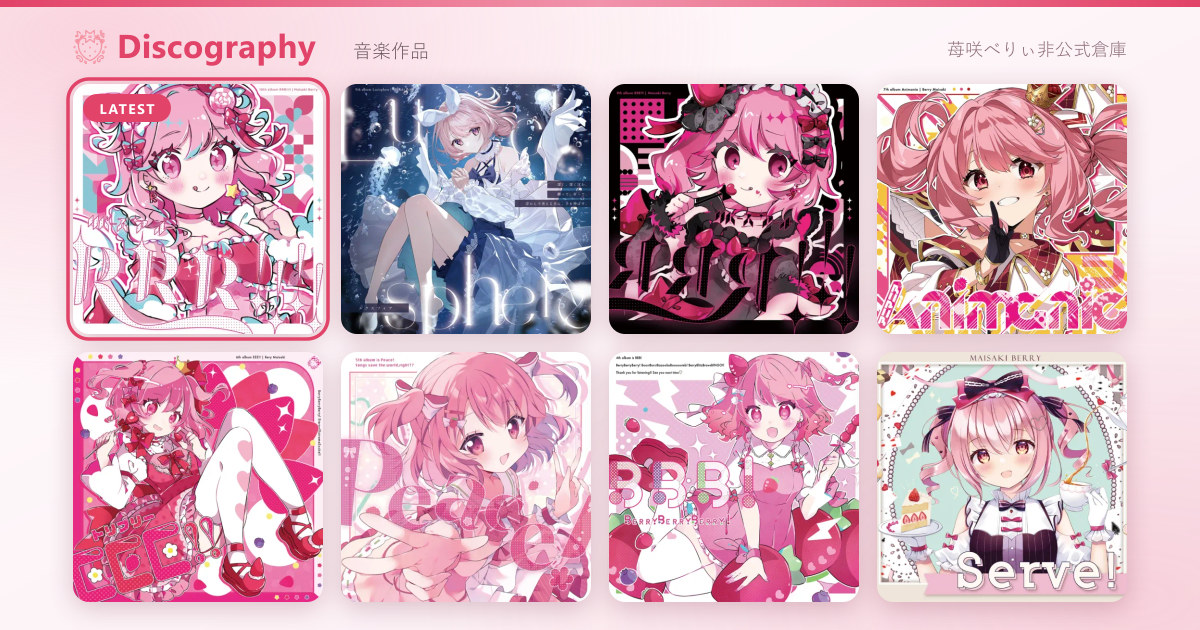
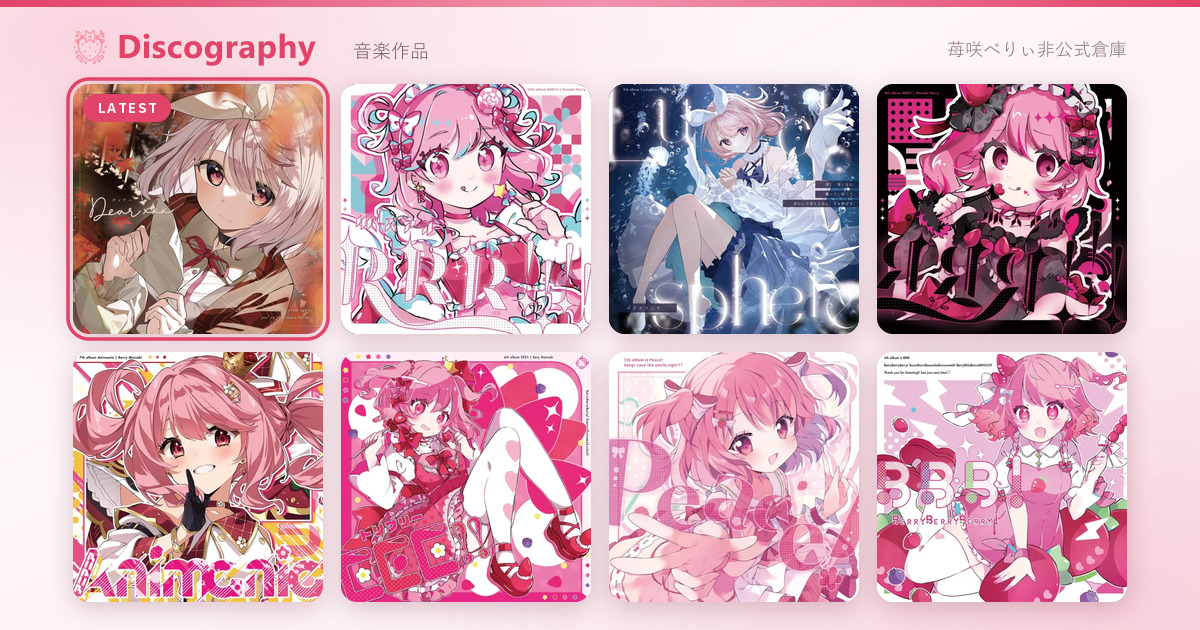
feat: 音樂作品收錄 11th『Dear xxx』＋CAKE,Cake'n Cake!——頭像・分享卡換 11th
- discographyData：albums 加 11th Album『Dear xxx』（2026-10-25；曲目／staff 以 BOOTH
  商品頁為準、與特設頁 credit 圖一致；Unbecoming 尚未進 songlist 故 songID null）；
  guests 加 SOUND VOLTEX ∇ 收錄曲「CAKE,Cake'n Cake!」（新 roleKey `game`）
- Discography.svelte：roleLabel 補 bass／drums、guestRole 補 game（三語）
- 封面 img/albums/dear-xxx.webp；template.yaml 的 ogDisco 加 dear-xxx（OG 快照 41→42 支）
- 個人資料頭像換 avatar-11th.webp（無字主插畫圓裁——封面會帶到標題字），
  移除已無引用的 avatar-10th.webp
- og/profile.jpg（NEW RELEASE 卡）與 og/discography.jpg（最新 8 張拼貼＋LATEST）換 11th
- history.md：11th 條目改連官方特設頁並對齊既有標題格式；SOUND VORTEX→VOLTEX 錯字
- fansite-v2/CLAUDE.md 新增「新專輯發售時的更新清單」；changelog.json、根 CLAUDE.md 同步

diff --git a/fansite-v2/src/pages/discographyData.js b/fansite-v2/src/pages/discographyData.js
@@ -21,7 +21,7 @@
 //   type          'album' | 'single' —— ⚠ 保留欄位，目前頁面完全未讀取（專輯／單曲之分
 //                 來自 albums / singles 兩個匯出，卡片標籤看的是有無 ordinal）。留著是為了
 //                 日後若改成單一清單再分類；有新增資料時請照樣填。
-//   ordinal       專輯序數（1st~10th）；單曲無
+//   ordinal       專輯序數（1st~11th）；單曲無
 //   title         作品名（原文）
 //   releaseDate   YYYY-MM-DD（專輯＝官方特設頁/M3 場次日；單曲＝iTunes 配信日）
 //   links         有才顯示（1st 絕版、單曲無特設頁）：
@@ -42,6 +42,65 @@
 
 /** 專輯（新→舊，同衣裝頁慣例；ordinal 保留原始序數） */
 export const albums = [
+  {
+    id: 'dear-xxx',
+    type: 'album',
+    ordinal: 11,
+    title: 'Dear xxx',
+    releaseDate: '2026-10-25',
+    links: {
+      official: 'https://www.maisakiberry.com/11th-dearxxx',
+      booth: 'https://booth.pm/ja/items/8992308',
+      xfd: 'mAmfQ1dUMo4',
+    },
+    instrumental: true,
+    staff: [
+      { roles: ['illust'], name: 'BORUMETE' },
+      { roles: ['sdIllust'], name: '小吉よこ' },
+      { roles: ['design', 'logo'], name: '来宮りお' },
+      { roles: ['emblem'], name: 'ますだめぐみ' },
+      { roles: ['mastering'], name: 'スタジオセブン' },
+    ],
+    tracks: [
+      {
+        songID: 1058,
+        name: 'どうか今だけは',
+        credits: [
+          { roles: ['lyrics'], name: '葉月リョウヘイ(U-RASIA)' },
+          { roles: ['music'], name: 'ひかげ' },
+        ],
+      },
+      {
+        songID: 1064,
+        name: 'Faraway',
+        credits: [
+          { roles: ['lyrics'], name: '結崎有理' },
+          { roles: ['music'], name: 'ねぎとろ。' },
+        ],
+      },
+      {
+        songID: 1060,
+        name: 'エコー',
+        credits: [
+          { roles: ['lyrics'], name: '七乃二条（創作集団「カタリスト」）' },
+          { roles: ['music'], name: 'Yuy（Secret Messenger）' },
+          { roles: ['bass'], name: 'あばら' },
+          { roles: ['drums'], name: 'hiroto kanzaki' },
+          { roles: ['mix'], name: '羽鳥風画' },
+        ],
+      },
+      // 2026-11-13 時 songlist 尚無此曲（未在歌枠唱過）；唱過後回填 songID
+      {
+        songID: null,
+        name: 'Unbecoming',
+        credits: [
+          { roles: ['lyrics'], name: 'Kyrie' },
+          { roles: ['music'], name: '羽鳥風画' },
+        ],
+      },
+      { songID: 1063, name: 'ひとつのカタチ', credits: [{ roles: ['lyrics', 'music'], name: 'ねぎとろ。' }] },
+    ],
+  },
   {
     id: 'rebirthr',
     type: 'album',
@@ -726,7 +785,7 @@ export const singles = [
  *   id       hash／key 用 slug
  *   work     作品／廠牌／專輯名（原文）
  *   title    曲名（單曲時）；多曲時放 tracks
- *   roleKey  參與形式，三語標籤在頁面字典（ed／theme／feature；缺省＝僅演唱）
+ *   roleKey  參與形式，三語標籤在頁面字典（ed／theme／feature／game；缺省＝僅演唱）
  *   noteKey  補充說明的字典 key（資訊不全時用）
  *   credits  同專輯 track 的結構
  *   date     YYYY-MM-DD（已知者）
@@ -748,6 +807,23 @@ export const guests = [
     date: '2026-04-26',
     credits: [{ roles: ['vocal'], name: '苺咲べりぃ' }],
     youtube: '8FOX4tC2rdA',
+    songID: null,
+  },
+  {
+    id: 'cake-cake-n-cake',
+    // KONAMI 音樂遊戲收錄曲（BEMANI PRO LEAGUE -SEASON 5- オリジナル楽曲コンテスト Prize 賞）；
+    // 遊戲內 artist 表記就是「苺咲べりぃ」。來源：RemyWiki 曲目頁＋本人告知推文（history.md 2026/01/07）
+    work: 'SOUND VOLTEX ∇',
+    title: "CAKE,Cake'n Cake!",
+    roleKey: 'game',
+    // 遊戲內解禁日（告知推文為前一日 2026-01-07）
+    date: '2026-01-08',
+    credits: [
+      { roles: ['vocal'], name: '苺咲べりぃ' },
+      { roles: ['lyrics', 'music'], name: 'ねぎとろ。' },
+    ],
+    // 無官方 MV（history.md 連的是玩家的譜面確認影片，不當 MV 放）；連結給本人告知推文
+    links: { official: 'https://x.com/MaisakiBerry/status/2009086847532855343' },
     songID: null,
   },
   {

diff --git a/fansite-v2/src/pages/Discography.svelte b/fansite-v2/src/pages/Discography.svelte
@@ -62,13 +62,15 @@
         illust: '插畫',
         sdIllust: 'SD 插畫',
         guitar: '吉他',
+        bass: '貝斯',
+        drums: '鼓',
         mix: 'MIX',
         design: '設計',
         logo: 'Logo',
         emblem: '徽章',
         mastering: '母帶處理',
       },
-      guestRole: { ed: '片尾曲', theme: '主題歌', feature: '參與演唱' },
+      guestRole: { ed: '片尾曲', theme: '主題歌', feature: '參與演唱', game: '音樂遊戲收錄曲' },
       guestNote: { titleUnknownVoice: '曲名不明；另有部分配音演出' },
     },
     en: {
@@ -107,13 +109,15 @@
         illust: 'Illustration',
         sdIllust: 'SD Illustration',
         guitar: 'Guitar',
+        bass: 'Bass',
+        drums: 'Drums',
         mix: 'Mixing',
         design: 'Design',
         logo: 'Logo',
         emblem: 'Emblem',
         mastering: 'Mastering',
       },
-      guestRole: { ed: 'Ending Theme', theme: 'Theme Song', feature: 'Featured Vocals' },
+      guestRole: { ed: 'Ending Theme', theme: 'Theme Song', feature: 'Featured Vocals', game: 'Rhythm Game Track' },
       guestNote: { titleUnknownVoice: 'Title unknown; also includes voice work' },
     },
     ja: {
@@ -152,13 +156,15 @@
         illust: 'イラスト',
         sdIllust: 'SDイラスト',
         guitar: 'ギター',
+        bass: 'ベース',
+        drums: 'ドラム',
         mix: 'MIX',
         design: 'デザイン',
         logo: 'ロゴ',
         emblem: 'エンブレム',
         mastering: 'マスタリング',
       },
-      guestRole: { ed: 'ED主題歌', theme: '主題歌', feature: '参加' },
+      guestRole: { ed: 'ED主題歌', theme: '主題歌', feature: '参加', game: '音楽ゲーム収録曲' },
       guestNote: { titleUnknownVoice: '曲名不明・一部ボイス出演あり' },
     },
   }

diff --git a/fansite-v2/src/pages/Profile.svelte b/fansite-v2/src/pages/Profile.svelte
@@ -122,7 +122,7 @@
   <!-- 頭像 + facts-grid -->
   <div class="grid gap-8 sm:grid-cols-[auto_1fr] sm:items-center">
     <img
-      src={assetUrl('/img/profile/avatar-10th.webp')}
+      src={assetUrl('/img/profile/avatar-11th.webp')}
       width="220"
       height="220"
       alt="苺咲べりぃ"

diff --git a/CLAUDE.md b/CLAUDE.md
@@ -211,7 +211,8 @@ S3 body），統一回 200。
 HTML。`fansite-v2/scripts/generate-og-html.mjs`（`npm run build` 已串上）在 build 後把
 `dist/index.html` 複製成 `dist/og/<slug>.html`，只換 `og:*`／`description`／`twitter:card`：
 - 清單＝`scripts/og-config.mjs`（頁級 4 支 ＋ 每張專輯／單曲 ＋ 每套衣裝，**資料來自頁面
-  自己的資料模組** ⇒ 新增專輯只要改 `discographyData.js`）
+  自己的資料模組** ⇒ OG 檔隨 `discographyData.js` 自動產生；但新專輯另有 `ogDisco` 清單、
+  頭像、兩張寫死最新作的卡要連動——清單見 `fansite-v2/CLAUDE.md`「新專輯發售時的更新清單」）
 - **AWS**：`BotBlockerFunction` 把 `/discography/<id>` rewrite 成 `/og/discography-<id>.html`，
   且**內嵌一份 id 清單**（function 問不到 S3 有沒有物件，機械式 rewrite 會讓未知 id 吃 403）。
   清單漏更新的代價只是該項目退回站台級預覽，不會壞站
@@ -582,6 +583,7 @@ cd fansite && npm run build:js
 
 | 版本 | 日期 | 主要更新 |
 |------|------|----------|
+| v3.12 | 2026-11-13 | 音樂作品收錄 11th Album『Dear xxx』（專輯 11 張）＋客座新增 SOUND VOLTEX 收錄曲「CAKE,Cake'n Cake!」（新類型 `game`）；個人資料頭像改 11th 無字主插畫圓裁、`og/profile.jpg`／`og/discography.jpg` 換 11th |
 | v3.11 | 2026-08-14 | 詳細頁 path 化＋per-page OG：`/clothes#20260611`→`/clothes/20260611`、`/discography#rebirthr`→`/discography/rebirthr`（router 加動態段 `/:id`＋`route.pattern/page/id`，舊 hash 連結 mount 時自動 replace 轉址）；build 後產 `dist/og/<slug>.html` 41 支（頁級 4＋專輯/單曲 21＋衣裝 16，資料源＝各頁資料模組），AWS 由 BotBlockerFunction rewrite、CF 由 worker 向 ASSETS 取同一支檔；白名單一致性檢查 `npm run check:routes`（五份清單全比） |
 | v3.10 | 2026-08-13 | 新增「音樂作品」（Discography）頁（v3/fansite-v2）：專輯 10・單曲 11・客座 9 的封面牆＋詳細面板（曲目/staff/特設・BOOTH・配信・XFD 連結/instrumental 註記），曲目 🎤N 鈕就地展開歌枠演唱場次（帶 ?t= 秒數）、`/setlist?song=` 跳轉；封面圖 `fansite/img/albums/`（隨 CI 上線）；dev 圖片改 vite middleware 直讀本地 `fansite/img`；資料權威序＝官方 discography 頁＞BOOTH＞特設頁＞iTunes＞wiki（wiki 累計漏曲 5 處不採信） |
 | v3.9 | 2026-08-09 | 表格快速搜尋語法（由 fansite-v2 移植）：四張表頁的進階搜尋卡片首列新增快速搜尋框，支援 `欄位:值`（三語別名表）、引號值、全形冒號／空白／彎引號、`欄位:*`＝非空、空白分隔 AND；認不得的欄位名整串退回全文比對（`12:34` 不誤拆）；「?」語法說明面板（三語＋可點擊套用的範例）；與既有多欄運算子搜尋並存（統一 `applyTableFilters()` 出口合併送 `setFilter`），刪空搜尋框不再誤清 headerFilter |
@@ -598,4 +600,4 @@ cd fansite && npm run build:js
 | v2.8 | 2026-01-20 | Analytics SQL 小幫手 |
 | v2.7 | 2025-12-29 | 多語言優化、GitHub commit 代理 |
 
-**最後更新**：2026-08-14
+**最後更新**：2026-11-13

diff --git a/fansite-v2/CLAUDE.md b/fansite-v2/CLAUDE.md
@@ -65,8 +65,8 @@ hash chunk，開著舊分頁的人 lazy-load（QueryPanel、sql.js wasm）就吃
   ＋`OG_PAGES`）／`scripts/og-config.mjs`。**改完一律跑 `npm run check:routes`**
 - **OG 快照**：`scripts/og-config.mjs`（清單，資料源＝`discographyData.js`／`clothesData.js`）
   ＋`scripts/generate-og-html.mjs`（build 後把 `dist/index.html` 複製成
-  `dist/og/<slug>.html`，只換 og:*／description／twitter:card）。目前 41 支＝頁級 4
-  ＋專輯/單曲 21（封面 520x520，twitter:card 用 `summary` 免被裁）＋衣裝 16
+  `dist/og/<slug>.html`，只換 og:*／description／twitter:card）。目前 42 支＝頁級 4
+  ＋專輯/單曲 22（封面 520x520，twitter:card 用 `summary` 免被裁）＋衣裝 16
   （每套一張專屬卡）
 - **OG 卡圖**：`fansite/img/og/`（源在 v2 目錄、隨兩支 workflow 的 `fansite/img/` 整目錄
   同步上線）——`site.jpg`（站台卡，index.html 與 `/setlist` 共用）／`discography.jpg`／
@@ -77,6 +77,24 @@ hash chunk，開著舊分頁的人 lazy-load（QueryPanel、sql.js wasm）就吃
 - ⚠ **`clothesData.js`／`discographyData.js` 必須維持裸 Node 可 import**
   （不得 import `assets.js` 這類吃 `import.meta.env` 的模組）——衣裝的
   `clothesGalleryImages` 因此搬進 Clothes.svelte
+
+### 新專輯發售時的更新清單（11th『Dear xxx』2026-11-13 實作為範本）
+素材：官方特設頁（Wix，**曲目是白字透明底的圖片**、機器讀不到，要合成到深色底才看得見）＋
+BOOTH 商品頁（`https://booth.pm/ja/items/<id>.json` 有純文字曲目／credits／staff＝權威，curl 可取）。
+1. 封面 → `fansite/img/albums/<id>.webp`（ジャケット原圖等比縮到寬 520）
+2. `discographyData.js` 的 `albums` 開頭加條目：songID 對 `/api/songlist`（曲名精確相符且
+   artist＝苺咲べりぃ；還沒唱過的留 `null`，唱過後回填）、`links.xfd` 對 `/api/streamlist` 搜【XFD】。
+   出現新職稱（如 bass／drums）要補 `Discography.svelte` 三語 `roleLabel`
+3. `template.yaml` 的 `ogDisco` 加 id（AWS 側內嵌清單）→ `npm run check:routes`
+4. 個人資料頭像：**無字主插畫**（封面會帶到標題字）圓裁 540×540 →
+   `fansite/img/profile/avatar-<n>th.webp`，改 `Profile.svelte` 的 src
+5. 兩張寫死「最新作」的 OG 卡要重製（皆 1200×630）：`fansite/img/og/profile.jpg`
+   （NEW RELEASE 卡：封面＋標題＋「Nth Album ・ 日期」）與 `discography.jpg`（最新 8 張拼貼＋LATEST 徽章）
+6. `fansite/pages/history.md`：條目照慣例寫成 `[Nth Album 『Title』 発売](<官方特設頁>)`
+7. 上方「OG 快照」的支數加一
+
+單曲只做 1～3（條目加在 `singles`）；客座／遊戲收錄曲只在 `guests` 加條目
+（`roleKey` 有新類型時補 `guestRole` 三語）。建檔成果一律人確認後才 commit。
 
 ### API 契約
 `SPEC-api.md` 是唯一依據（三套回應信封、ETag 範圍、rate limit 30 寫入/分）。要點：POST /api/setlist 必帶 `X-Source: user`（client.js 已自動）；編輯 UI 一律「一次儲存」不做逐鍵送出；批次操作用單一陣列 POST（算 1 次限流）。

diff --git a/fansite/pages/history.md b/fansite/pages/history.md
@@ -1,6 +1,6 @@
 ## 2026
 * 2026/12/12　[むあんちゃん主催ライブ『Vivid One』出演決定](https://x.com/MaisakiBerry/status/2110597312255050233)
-* 2026/10/25　[苺咲べりぃ 11th Album『Dear xxx』発売（M3秋2026）](https://x.com/MaisakiBerry/status/2110706001288823058)
+* 2026/10/25　[11th Album 『Dear xxx』 発売](https://www.maisakiberry.com/11th-dearxxx)
 * 2026/10/11　[苺咲べりぃ 生誕＆6周年記念グッズ 受注締切（受注期間：～10/11まで）](https://x.com/MaisakiBerry/status/2107052599195431047)
 * 2026/09/05　[デビュー6周年🎉](https://x.com/MaisakiBerry/status/2095995324452278357)
 * 2026/08/09　[BGかなるフェス　昼の部出演決定❤](https://x.com/MaisakiBerry/status/2055305529233424648)
@@ -12,7 +12,7 @@
 * 2026/02/14　[ライブイベント「#ぶいかふぇ♪」vol.208 出演キャスト](https://x.com/MaisakiBerry/status/2022655123101811036)
 * 2026/02/12　[新しいお洋服をみて♥](https://www.youtube.com/live/OraWP0bLPfY)
 * 2026/02/11　[V COLLECTION【#CHETCollection #11】](https://x.com/C_H_E_T_art/status/2021561521365823874)
-* 2026/01/07　SOUND VORTEX新曲「CAKE,Cake'n Cake!」[twitter](https://x.com/MaisakiBerry/status/2009086847532855343) / [youtube](https://www.youtube.com/watch?v=JxIktLT2VqY)
+* 2026/01/07　SOUND VOLTEX新曲「CAKE,Cake'n Cake!」[twitter](https://x.com/MaisakiBerry/status/2009086847532855343) / [youtube](https://www.youtube.com/watch?v=JxIktLT2VqY)
 
 ## 2025
 * 2025/12/20　Single 『いつも通りのI love you』[youtube](https://www.youtube.com/watch?v=4kQH6ELDJ8Q) / [booth](https://maisakiberry.booth.pm/items/7776451)
